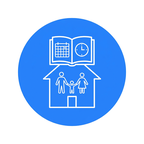
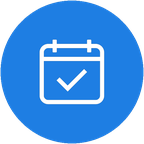
fix: 修复课表亮点布局及切换课表抽屉数据刷新问题
- FeatureHighlights 改用 CSS Grid 实现稳定的一行两列布局
- 打开切换课表抽屉时静默刷新全量课表列表（含共享课表）
- 其他页面优化调整

diff --git a/taro-app/src/pages/settings/index.tsx b/taro-app/src/pages/settings/index.tsx
@@ -1,11 +1,18 @@
-import { useState } from 'react'
+import { useEffect, useState } from 'react'
 import { View, Text, PageContainer, Image, Button } from '@tarojs/components'
 import Taro, { useDidHide, useDidShow, useShareAppMessage, useUnload } from '@tarojs/taro'
 import { tabState } from '../../utils/tabState'
 import { ROUTES } from '../../constants/routes'
+import { SETTINGS_AD_BANNER_MINI_PROGRAM } from '../../constants/external-mini-programs'
 import { useAuthStore } from '../../store/auth.store'
 import { getSettingsSummary, type SettingsSummary } from '../../api/auth.api'
 import defaultAvatar from '../../assets/default-avatar.png'
+import {
+  getDisplayAvatarUrl,
+  isCloudFileId,
+  resolveCloudAvatarUrl,
+} from '../../utils/avatar'
+import bannerImg from '../../assets/banner.png'
 import ContactModal from './components/ContactModal'
 import EditProfileModal from './components/EditProfileModal'
 import './index.scss'
@@ -19,7 +26,7 @@ interface MenuRow {
 }
 
 const menuRows: MenuRow[] = [
-  { key: 'notify', label: '通知提醒', icon: '\ue759' },
+  // { key: 'notify', label: '通知提醒', icon: '\ue759' },
   { key: 'family', label: '家人管理', icon: '\ue600' },
   { key: 'scheduleTab', label: '课表管理', icon: '\ue696' },
   { key: 'studentManage', label: '学生管理', icon: '\ue706' },
@@ -52,6 +59,7 @@ export default function SettingsPage() {
   const [activeSheet, setActiveSheet] = useState<'none' | 'menu' | 'rename'>('none')
   const [settingsSummary, setSettingsSummary] = useState<SettingsSummary | null>(null)
   const [contactVisible, setContactVisible] = useState(false)
+  const [avatarSrc, setAvatarSrc] = useState(defaultAvatar)
 
   useShareAppMessage(() => ({
     title: '智鑫课表：课程管理、家庭共享、上课提醒',
@@ -151,7 +159,28 @@ export default function SettingsPage() {
     }
   }
 
-  const avatarUrl = userInfo?.avatarUrl || defaultAvatar
+  useEffect(() => {
+    const raw = userInfo?.avatarUrl
+    const syncSrc = getDisplayAvatarUrl(raw, defaultAvatar)
+    if (!isCloudFileId(syncSrc)) {
+      setAvatarSrc(syncSrc)
+      return
+    }
+
+    let cancelled = false
+    void resolveCloudAvatarUrl(syncSrc)
+      .then((url) => {
+        if (!cancelled) setAvatarSrc(url)
+      })
+      .catch(() => {
+        if (!cancelled) setAvatarSrc(defaultAvatar)
+      })
+
+    return () => {
+      cancelled = true
+    }
+  }, [userInfo?.avatarUrl])
+
   const openIdTip = userInfo?.openId ? `id:${userInfo.openId.slice(0, 6)}*** ▾` : '点击管理账号 ▾'
   const contactText = '📮email：up91@foxmail.com\n✉微信号：atgoing'
 
@@ -165,6 +194,17 @@ export default function SettingsPage() {
     } catch {
       Taro.showToast({ title: '复制失败，请稍后再试', icon: 'none' })
     }
+  }
+
+  const handleGuestBannerClick = () => {
+    const { appId, path } = SETTINGS_AD_BANNER_MINI_PROGRAM
+    Taro.navigateToMiniProgram({
+      appId,
+      path,
+      fail: () => {
+        Taro.showToast({ title: '跳转失败，请稍后再试', icon: 'none' })
+      },
+    })
   }
 
   return (
@@ -193,7 +233,7 @@ export default function SettingsPage() {
             </View>
           ) : (
             <View className='user-info-nav' onClick={handleUserClick}>
-              <Image className='avatar-img' src={avatarUrl} mode='aspectFill' />
+              <Image className='avatar-img' src={avatarSrc} mode='aspectFill' />
               <View className='user-text'>
                 <View className='name-row'>
                   <Text className='name'>{userInfo?.nickname || '微信昵称限6字...'}</Text>
@@ -208,10 +248,12 @@ export default function SettingsPage() {
       <View style={{ flexShrink: 0, height: `${statusBarHeight + navBarHeight}px` }} />
       <View className='content'>
         <View className='guest-top'>
-          <View className='guest-banner'>
-            <Text className='iconfont guest-banner-icon'>{'\ue759'}</Text>
-            <Text className='guest-banner-title'>广告banner 占位示意</Text>
-            <Text className='guest-banner-text'>示意图</Text>
+          <View
+            className='guest-banner'
+            hoverClass='guest-banner--pressed'
+            onClick={handleGuestBannerClick}
+          >
+            <Image className='guest-banner-img' src={bannerImg} mode='aspectFill' />
           </View>
         </View>
 
@@ -276,7 +318,8 @@ export default function SettingsPage() {
       </View>
 
       <View className='version-area'>
-        <Text className='version-text'>智鑫课表 v1.0.0</Text>
+        {/* <Text className='version-text'>智鑫课表 v1.0.0</Text> */}
+        <Text className='version-text'>v0.1.0 内测版本，如有疑问请联系我们</Text>
       </View>
       </View>
 

diff --git a/taro-app/src/store/auth.store.ts b/taro-app/src/store/auth.store.ts
@@ -6,6 +6,7 @@ import {
   saveUserInfo, loadUserInfo, clearUserInfo,
   saveLoginFlag, loadLoginFlag, clearLoginFlag,
 } from '../utils/storage'
+import { isEphemeralAvatarUrl } from '../utils/avatar'
 
 interface AuthState {
   userInfo: UserInfo | null
@@ -27,8 +28,13 @@ function isInvalidSessionError(err: unknown): boolean {
   )
 }
 
+function sanitizeUserInfo(info: UserInfo | null): UserInfo | null {
+  if (!info || !isEphemeralAvatarUrl(info.avatarUrl)) return info
+  return { ...info, avatarUrl: '' }
+}
+
 function getCachedAuth() {
-  const cachedUserInfo = loadUserInfo()
+  const cachedUserInfo = sanitizeUserInfo(loadUserInfo())
   const cachedOpenId = loadOpenId()
   const cachedLoginFlag = loadLoginFlag()
   return {
@@ -44,12 +50,13 @@ export const useAuthStore = create<AuthState>((set) => ({
   isLoggedIn: cached.isLoggedIn,
 
   setUserInfo: (info) => {
-    if (info.openId) {
-      saveOpenId(info.openId)
+    const safeInfo = sanitizeUserInfo(info) || info
+    if (safeInfo.openId) {
+      saveOpenId(safeInfo.openId)
     }
-    saveUserInfo(info)
+    saveUserInfo(safeInfo)
     saveLoginFlag(true)
-    set({ userInfo: info, isLoggedIn: true })
+    set({ userInfo: safeInfo, isLoggedIn: true })
   },
 
   hydrate: () => {
@@ -62,7 +69,8 @@ export const useAuthStore = create<AuthState>((set) => ({
     if (!state.isLoggedIn) return
 
     try {
-      const profile = await getProfile()
+      const rawProfile = await getProfile()
+      const profile = sanitizeUserInfo(rawProfile) || rawProfile
       set({ userInfo: profile, isLoggedIn: true })
       if (profile.openId) saveOpenId(profile.openId)
       saveUserInfo(profile)

diff --git a/taro-app/src/utils/avatar.ts b/taro-app/src/utils/avatar.ts
@@ -1,0 +1,32 @@
+import Taro from '@tarojs/taro'
+
+/** 微信本地临时路径，重启或跨会话后无法用于 Image src */
+export function isEphemeralAvatarUrl(url?: string | null): boolean {
+  if (!url) return false
+  return (
+    url.startsWith('wxfile://') ||
+    url.includes('/__tmp__/') ||
+    url.startsWith('http://tmp/') ||
+    url.startsWith('https://tmp/')
+  )
+}
+
+export function isCloudFileId(url?: string | null): boolean {
+  return !!url && url.startsWith('cloud://')
+}
+
+/** 同步展示用：过滤失效临时路径，保留 https 与 cloud:// */
+export function getDisplayAvatarUrl(avatarUrl: string | undefined | null, fallback: string): string {
+  if (!avatarUrl || isEphemeralAvatarUrl(avatarUrl)) return fallback
+  return avatarUrl
+}
+
+/** 将 cloud fileID 转为可展示的 HTTPS 临时链接 */
+export async function resolveCloudAvatarUrl(fileId: string): Promise<string> {
+  const res = await Taro.cloud.getTempFileURL({ fileList: [fileId] })
+  const item = res.fileList?.[0]
+  if (item?.status === 0 && item.tempFileURL) {
+    return item.tempFileURL
+  }
+  throw new Error(item?.errMsg || '头像链接解析失败')
+}

diff --git a/taro-app/src/pages/schedule/index.tsx b/taro-app/src/pages/schedule/index.tsx
@@ -119,12 +119,19 @@ export default function SchedulePage () {
     Taro.navigateTo({ url: ROUTES.LOGIN })
   }
 
-  const openDrawer = () => {
+  const openDrawer = async () => {
     if (!isLoggedIn) {
       goLogin()
       return
     }
     setShowDrawer(true)
+    // 打开抽屉时静默刷新全量课表列表（含共享），确保展示最新数据
+    try {
+      const freshSchedules = await listSchedules()
+      setSchedules(freshSchedules)
+    } catch (_) {
+      // 静默失败不影响抽屉展示
+    }
   }
 
   const closeDrawer = () => {
@@ -614,7 +621,7 @@ export default function SchedulePage () {
           const diffWeeks = Math.floor((todayDate.getTime() - start.getTime()) / (1000 * 60 * 60 * 24 * 7))
           currentWeekByDate = Math.max(1, Math.min(diffWeeks + 1, totalWeeks))
         }
-        const availableWeeks = Array.from({ length: totalWeeks - currentWeekByDate + 1 }, (_, i) => currentWeekByDate + i)
+        const availableWeeks = Array.from({ length: totalWeeks }, (_, i) => i + 1)
         return (
           <>
             <View className='week-picker-overlay' onClick={handleCancelDayWeek} />

diff --git a/taro-app/src/pages/settings/components/EditProfileModal.tsx b/taro-app/src/pages/settings/components/EditProfileModal.tsx
@@ -4,6 +4,7 @@ import Taro from '@tarojs/taro'
 import { useAuthStore } from '../../../store/auth.store'
 import { updateProfile } from '../../../api/auth.api'
 import defaultAvatar from '../../../assets/default-avatar.png'
+import { getDisplayAvatarUrl } from '../../../utils/avatar'
 import './EditProfileModal.scss'
 
 interface EditProfileModalProps {
@@ -26,7 +27,7 @@ export default function EditProfileModal({ visible, onClose }: EditProfileModalP
       return
     }
     setDraftNickname(userInfo?.nickname || '')
-    setDraftAvatarUrl(userInfo?.avatarUrl || defaultAvatar)
+    setDraftAvatarUrl(getDisplayAvatarUrl(userInfo?.avatarUrl, defaultAvatar))
     setNicknameFocus(false)
   }, [visible])
 
@@ -44,7 +45,7 @@ export default function EditProfileModal({ visible, onClose }: EditProfileModalP
       return
     }
 
-    const previousAvatarUrl = userInfo?.avatarUrl || defaultAvatar
+    const previousAvatarUrl = getDisplayAvatarUrl(userInfo?.avatarUrl, defaultAvatar)
     setUpdatingAvatar(true)
     setDraftAvatarUrl(tempPath)
 

diff --git a/taro-app/src/pages/settings/index.scss b/taro-app/src/pages/settings/index.scss
@@ -1,3 +1,4 @@
+
 .settings-page {
   min-height: 100vh;
   background: #F5F5F5;
@@ -177,38 +178,22 @@
 }
 
 .guest-banner {
-  margin: 0 0 24px;
+  // margin: 0 0 24px;
   height: 140px;
   border-radius: 20px;
-  background: #eff6ff;
-  display: flex;
-  flex-direction: column;
-  align-items: flex-start;
-  justify-content: center;
-  padding-left: 120px;
+  overflow: hidden;
   position: relative;
   box-shadow: rgba(44, 30, 116, 0.08) 0px 4px 12px;
 }
 
-.guest-banner-icon {
-  position: absolute;
-  left: 40px;
-  top: 50%;
-  transform: translateY(-50%);
-  font-size: 64px;
-  color: #3b82f6;
+.guest-banner--pressed {
+  opacity: 0.85;
 }
 
-.guest-banner-title {
-  font-size: 32px;
-  color: #333;
-  font-weight: 500;
-  margin-bottom: 8px;
-}
-
-.guest-banner-text {
-  font-size: 24px;
-  color: #999;
+.guest-banner-img {
+  width: 100%;
+  height: 100%;
+  display: block;
 }
 
 .user-card {

diff --git a/taro-app/src/pages/login/index.tsx b/taro-app/src/pages/login/index.tsx
@@ -99,7 +99,7 @@ export default function LoginPage() {
             <Text className='iconfont logo-icon-inner'>{'\ue696'}</Text>
           </View>
           <Text className='app-name'>智鑫课表</Text>
-          <Text className='app-slogan'>让每个家庭的课表管理更轻松</Text>
+          {/* <Text className='app-slogan'>让每个家庭的课表管理更轻松</Text> */}
 
           <View className='features'>
             {FEATURES.map(item => (
@@ -158,7 +158,7 @@ export default function LoginPage() {
           )}
         </View>
 
-        <Text className='bottom-text'>无需注册账号，基于微信安全登录</Text>
+        {/* <Text className='bottom-text'>无需注册账号，基于微信安全登录</Text> */}
       </View>
     </View>
   )

diff --git a/taro-app/src/pages/schedule-ai/index.tsx b/taro-app/src/pages/schedule-ai/index.tsx
@@ -275,7 +275,7 @@ export default function ScheduleAiPage() {
       <View className='hero'>
         <Text className='eyebrow'>AI识别</Text>
         <Text className='title'>拍照识别课程表</Text>
-        <Text className='desc'>先拍照上传，AI 会把图片里的课程自动整理成可导入的课程列表。</Text>
+        <Text className='desc'>上传照片，AI自动整理可导入的课程。</Text>
       </View>
 
       {step === 'pick' && (

diff --git a/taro-app/src/pages/schedule/components/ScheduleGrid.tsx b/taro-app/src/pages/schedule/components/ScheduleGrid.tsx
@@ -95,8 +95,8 @@ export default function ScheduleGrid({
   }, [weekNum])
 
   const availableWeeks = useMemo(
-    () => Array.from({ length: totalWeeks - currentWeekByDate + 1 }, (_, i) => currentWeekByDate + i),
-    [currentWeekByDate, totalWeeks]
+    () => Array.from({ length: totalWeeks }, (_, i) => i + 1),
+    [totalWeeks]
   )
 
   const handleSelectWeek = (week: number) => {

diff --git a/taro-app/src/custom-tab-bar/index.tsx b/taro-app/src/custom-tab-bar/index.tsx
@@ -6,7 +6,7 @@ import './index.scss'
 
 const LIST = [
   { pagePath: '/pages/schedule/index', text: '课表', icon: '\ue696' },
-  { pagePath: '/pages/tools/index', text: '工具', icon: '\ue6ad' },
+  // { pagePath: '/pages/tools/index', text: '工具', icon: '\ue6ad' },
   { pagePath: '/pages/settings/index', text: '设置', icon: '\ue657' },
 ]
 

diff --git a/taro-app/src/components/FeatureHighlights/index.scss b/taro-app/src/components/FeatureHighlights/index.scss
@@ -14,15 +14,14 @@
 }
 
 .feature-highlights-grid {
-  display: flex;
-  flex-wrap: wrap;
+  display: grid;
+  grid-template-columns: 1fr 1fr;
   gap: 24px;
   width: 100%;
   margin-bottom: 64px;
 }
 
 .feature-highlights-item {
-  width: calc(50% - 12px);
   background: #ffffff;
   border-radius: 24px;
   padding: 40px 24px;

diff --git a/taro-app/src/app.config.ts b/taro-app/src/app.config.ts
@@ -38,5 +38,6 @@ export default defineAppConfig({
     navigationBarTitleText: '智鑫课表',
     navigationBarTextStyle: 'black',
   },
+  navigateToMiniProgramAppIdList: ['wxe186f230ce102b30'],
   cloud: true,
 })
